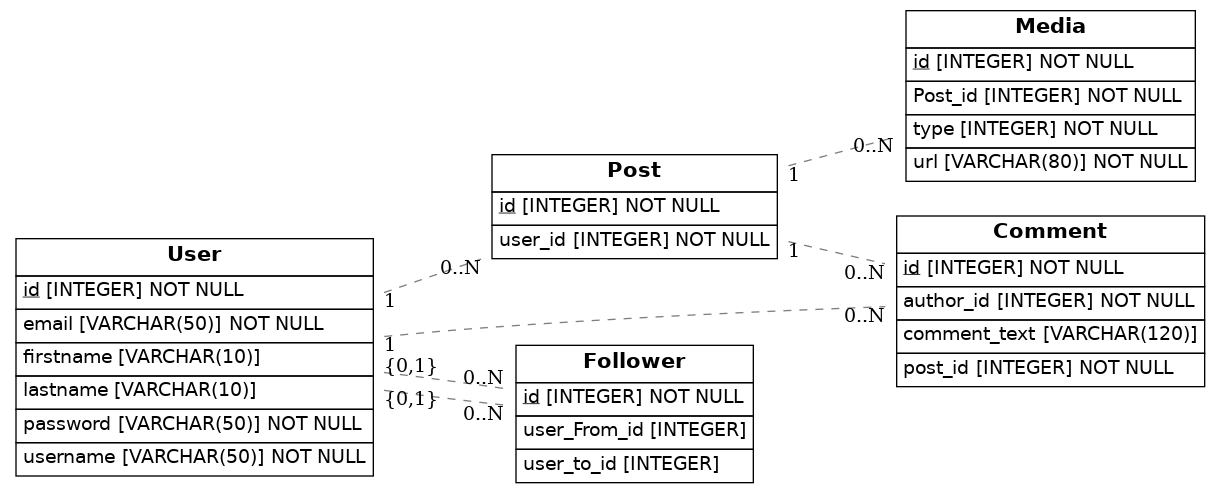
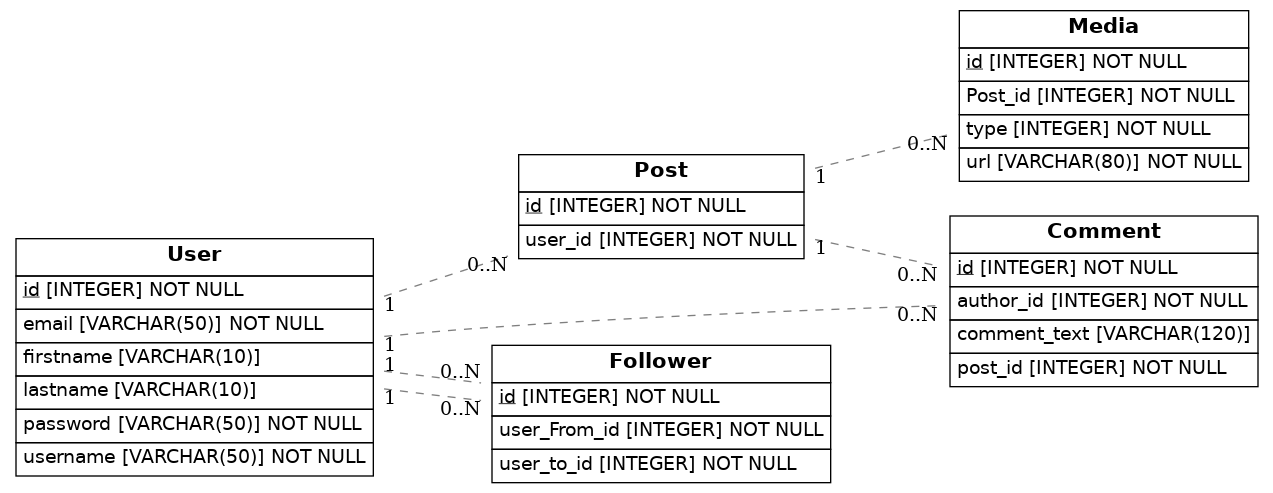
final2

diff --git a/src/models.py b/src/models.py
@@ -53,10 +53,10 @@ class Follower(Base):
     __tablename__ = "Follower"    
     id = Column(Integer, primary_key=True)     
     #User fron id
-    user_From_id = Column(Integer, ForeignKey('User.id'), nullable= True)
+    user_From_id = Column(Integer, ForeignKey('User.id'), nullable= False)
     user = relationship(User)      
     #user to id 
-    user_to_id = Column(Integer, ForeignKey('User.id'), nullable= True)
+    user_to_id = Column(Integer, ForeignKey('User.id'), nullable= False)
     user = relationship(User)   
 
 
